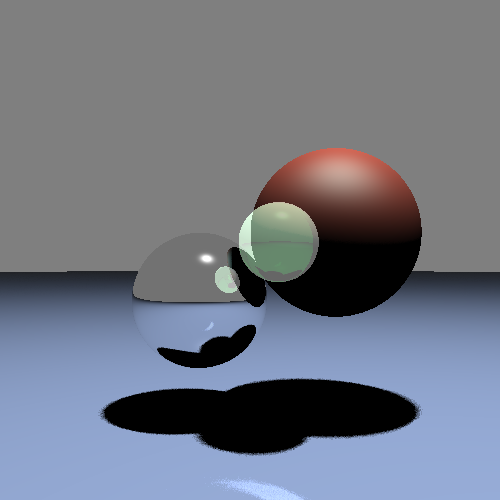
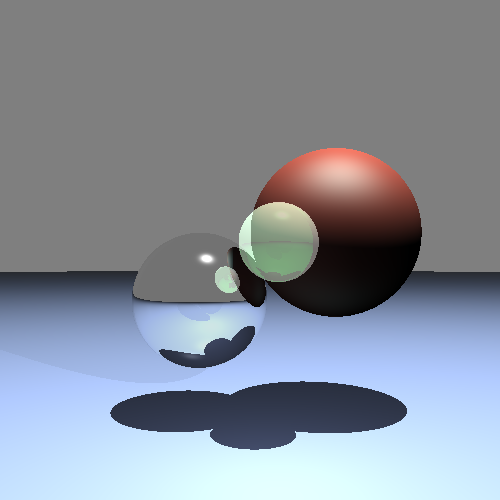
trying to fix

diff --git a/src/Scene.java b/src/Scene.java
@@ -1,6 +1,8 @@
 import java.util.ArrayList;
 import java.util.List;
 
+import javafx.scene.AmbientLight;
+
 class Scene
 {
     //General settings / singletons
@@ -90,49 +92,59 @@ class Scene
         {
             Vec3 reverseLightDirection = light.position.minus(point).normalized();
             Vec3 start = point.plus(reverseLightDirection.scaledBy(0.001));
+            double illumination = 1.0;
             double invCountOfShadowRays = 1.0 / shadowRayCount;
-            double shadowRayHits = shadowRayCount;
+            double shadowRayShadowFraction = 1.0 / shadowRayCount / shadowRayCount * light.shadowIntensity;
             Vec3 lightWidthRight = reverseLightDirection.anyPerpendicular().scaledBy(light.width);
             Vec3 lightWidthUp = lightWidthRight.cross(reverseLightDirection.normalized()).scaledBy(light.width);
-            for (int xx = 0; xx < shadowRayCount; xx++)
-                for (int yy = 0; yy < shadowRayCount; yy++)
-                {
-                    double randomUp = Math.random(), randomRight = Math.random();
-                    Vec3 pointNearLight = light.position
-                            .plus(lightWidthRight.scaledBy(
-                                    (-shadowRayCount / 2 + xx + randomRight) * invCountOfShadowRays))
-                            .plus(lightWidthUp.scaledBy(
-                                    (-shadowRayCount / 2 + yy + randomUp) * invCountOfShadowRays));
-    
-                    Vec3 reverseShadowDirection = pointNearLight.minus(start).normalized();
-                    for (Shape s : shapes)
-                    {
-                        Intersection shadowHit = s.findRayIntersection(start, reverseShadowDirection);
-                        if (shadowHit != null)
-                        {
-                            shadowRayHits --;
-                            break; //TODO transparency here?
-                        }
-                    }
-                }
+            boolean lightReaches = true;
+            double rayLength = point.minus(start).magnitude();
+        	for (int xx = 0; xx < shadowRayCount; xx++)
+        		for (int yy = 0; yy < shadowRayCount; yy++)
+        		{
+        			double randomUp = Math.random(), randomRight = Math.random();
+        			Vec3 pointNearLight = light.position
+        					.plus(lightWidthRight.scaledBy(
+        							(-shadowRayCount / 2 + xx + randomRight) * invCountOfShadowRays))
+        							.plus(lightWidthUp.scaledBy(
+        									(-shadowRayCount / 2 + yy + randomUp) * invCountOfShadowRays));
+
+        			Vec3 reverseShadowDirection = pointNearLight.minus(start).normalized();
+        			rayLength = start.minus(pointNearLight).magnitude();
+        			for (Shape s : shapes)
+        			{
+        				Intersection shadowHit = s.findRayIntersection(start, reverseShadowDirection);
+        				if (shadowHit != null && shadowHit.position.minus(pointNearLight).magnitude()<rayLength)
+        				{
+        					illumination -= shadowRayShadowFraction;
+        					if(shadowRayCount/2==xx || shadowRayCount/2==yy)
+        						lightReaches = false;
+        					break; //TODO transparency here?
+        				}
+        			}
+        		}
+        	if (!lightReaches)
+        		illumination *= (1-light.shadowIntensity);
+        	else
+        		illumination = 1;
             
-            double shadowRayFractions = (shadowRayHits / shadowRayCount) * light.shadowIntensity;
-            Color illumination = light.color.scaledBy(shadowRayFractions);
-            if (shadowRayHits > 0)
+            Color lightAmount = light.color.scaledBy(illumination);
+            
+            if (illumination > 0)
             {
                 //diffuse lighting
-                Color diffuseColor = illumination.mul(mat.diffuseColor.scaledBy(
+                Color diffuseColor = lightAmount.mul(mat.diffuseColor.scaledBy(
                         hit.normal.dot(reverseLightDirection)));
                 //specular lighting
                 Vec3 reflectionDirection = reverseLightDirection.reflectedBy(hit.normal);
-                Color specularColor =  illumination.mul(mat.specularColor.scaledBy(light.specularIntensity
+                Color specularColor =  lightAmount.mul(mat.specularColor.scaledBy(light.specularIntensity
                         * Math.pow(reflectionDirection.dot(hit.direction), mat.phongSpecularity)));
     
                 color = color.plus(
                         diffuseColor.plus(specularColor).scaledBy((1 - mat.transparency)));
-            }
+            }            
         }
-    
+        
         // Reflection color
         Vec3 mirrorDir = hit.getReflactionVector();
         Intersection rayMirror = raycast(hit.position, mirrorDir);
